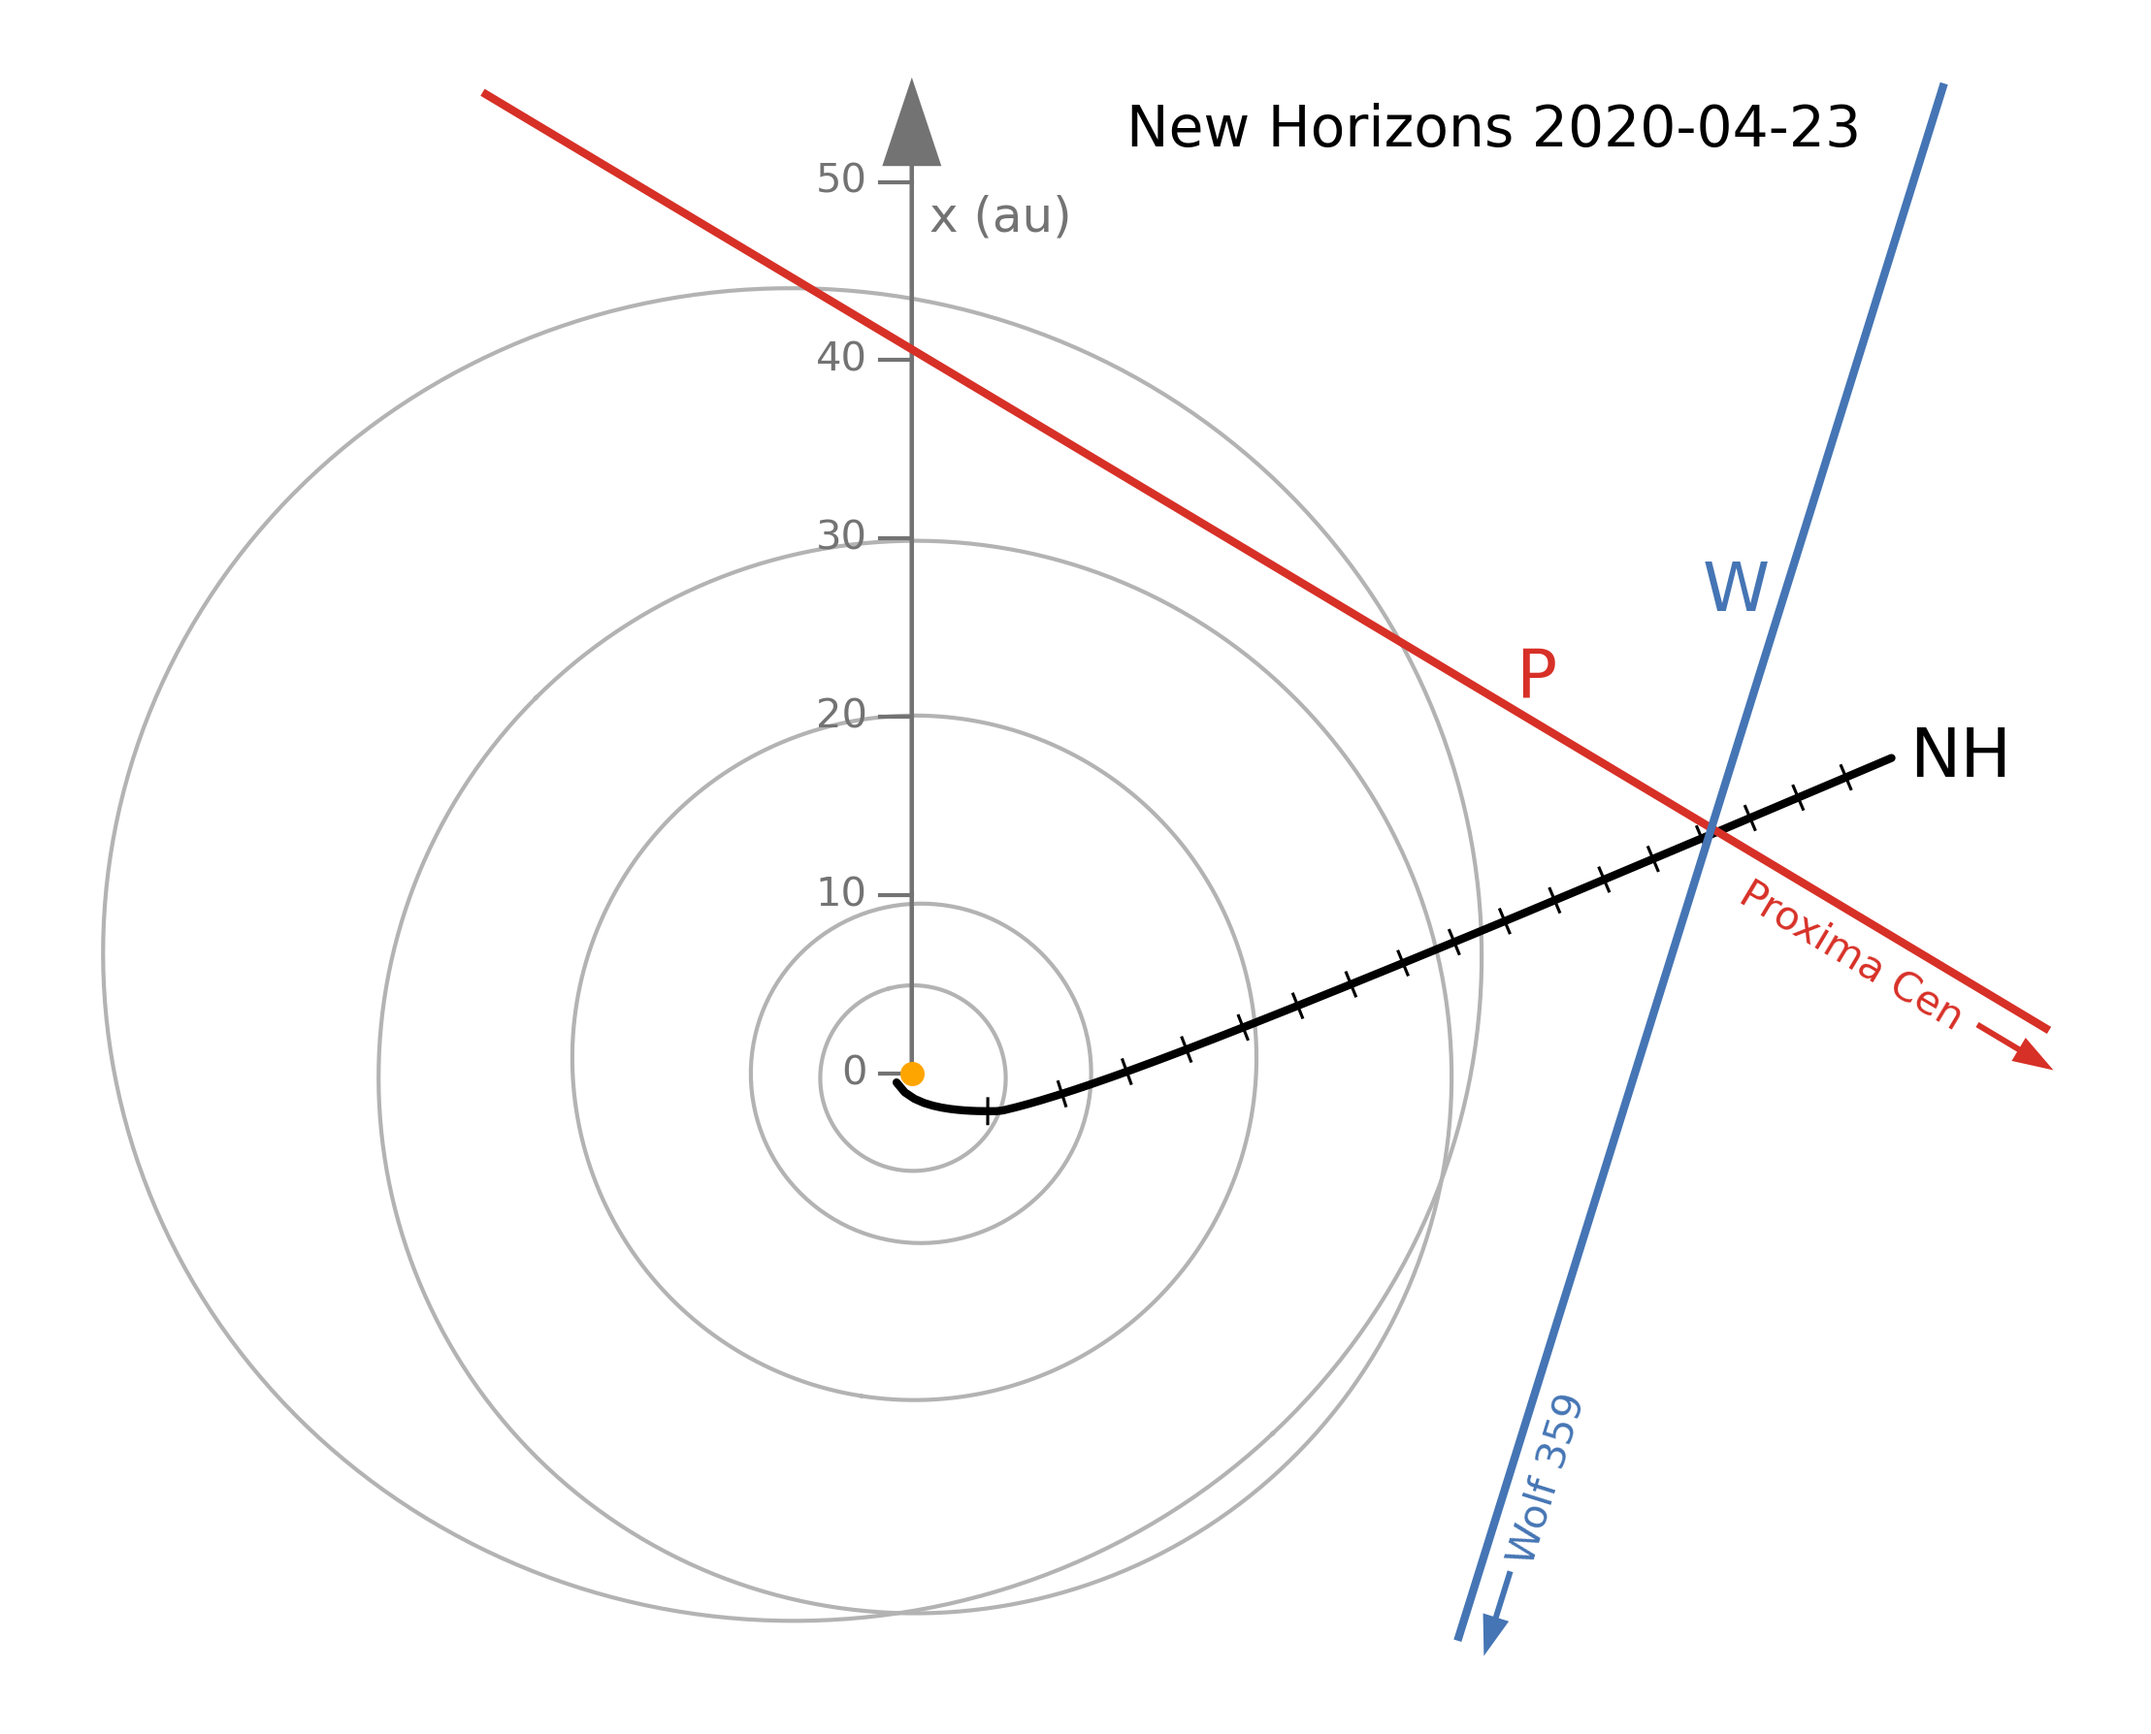
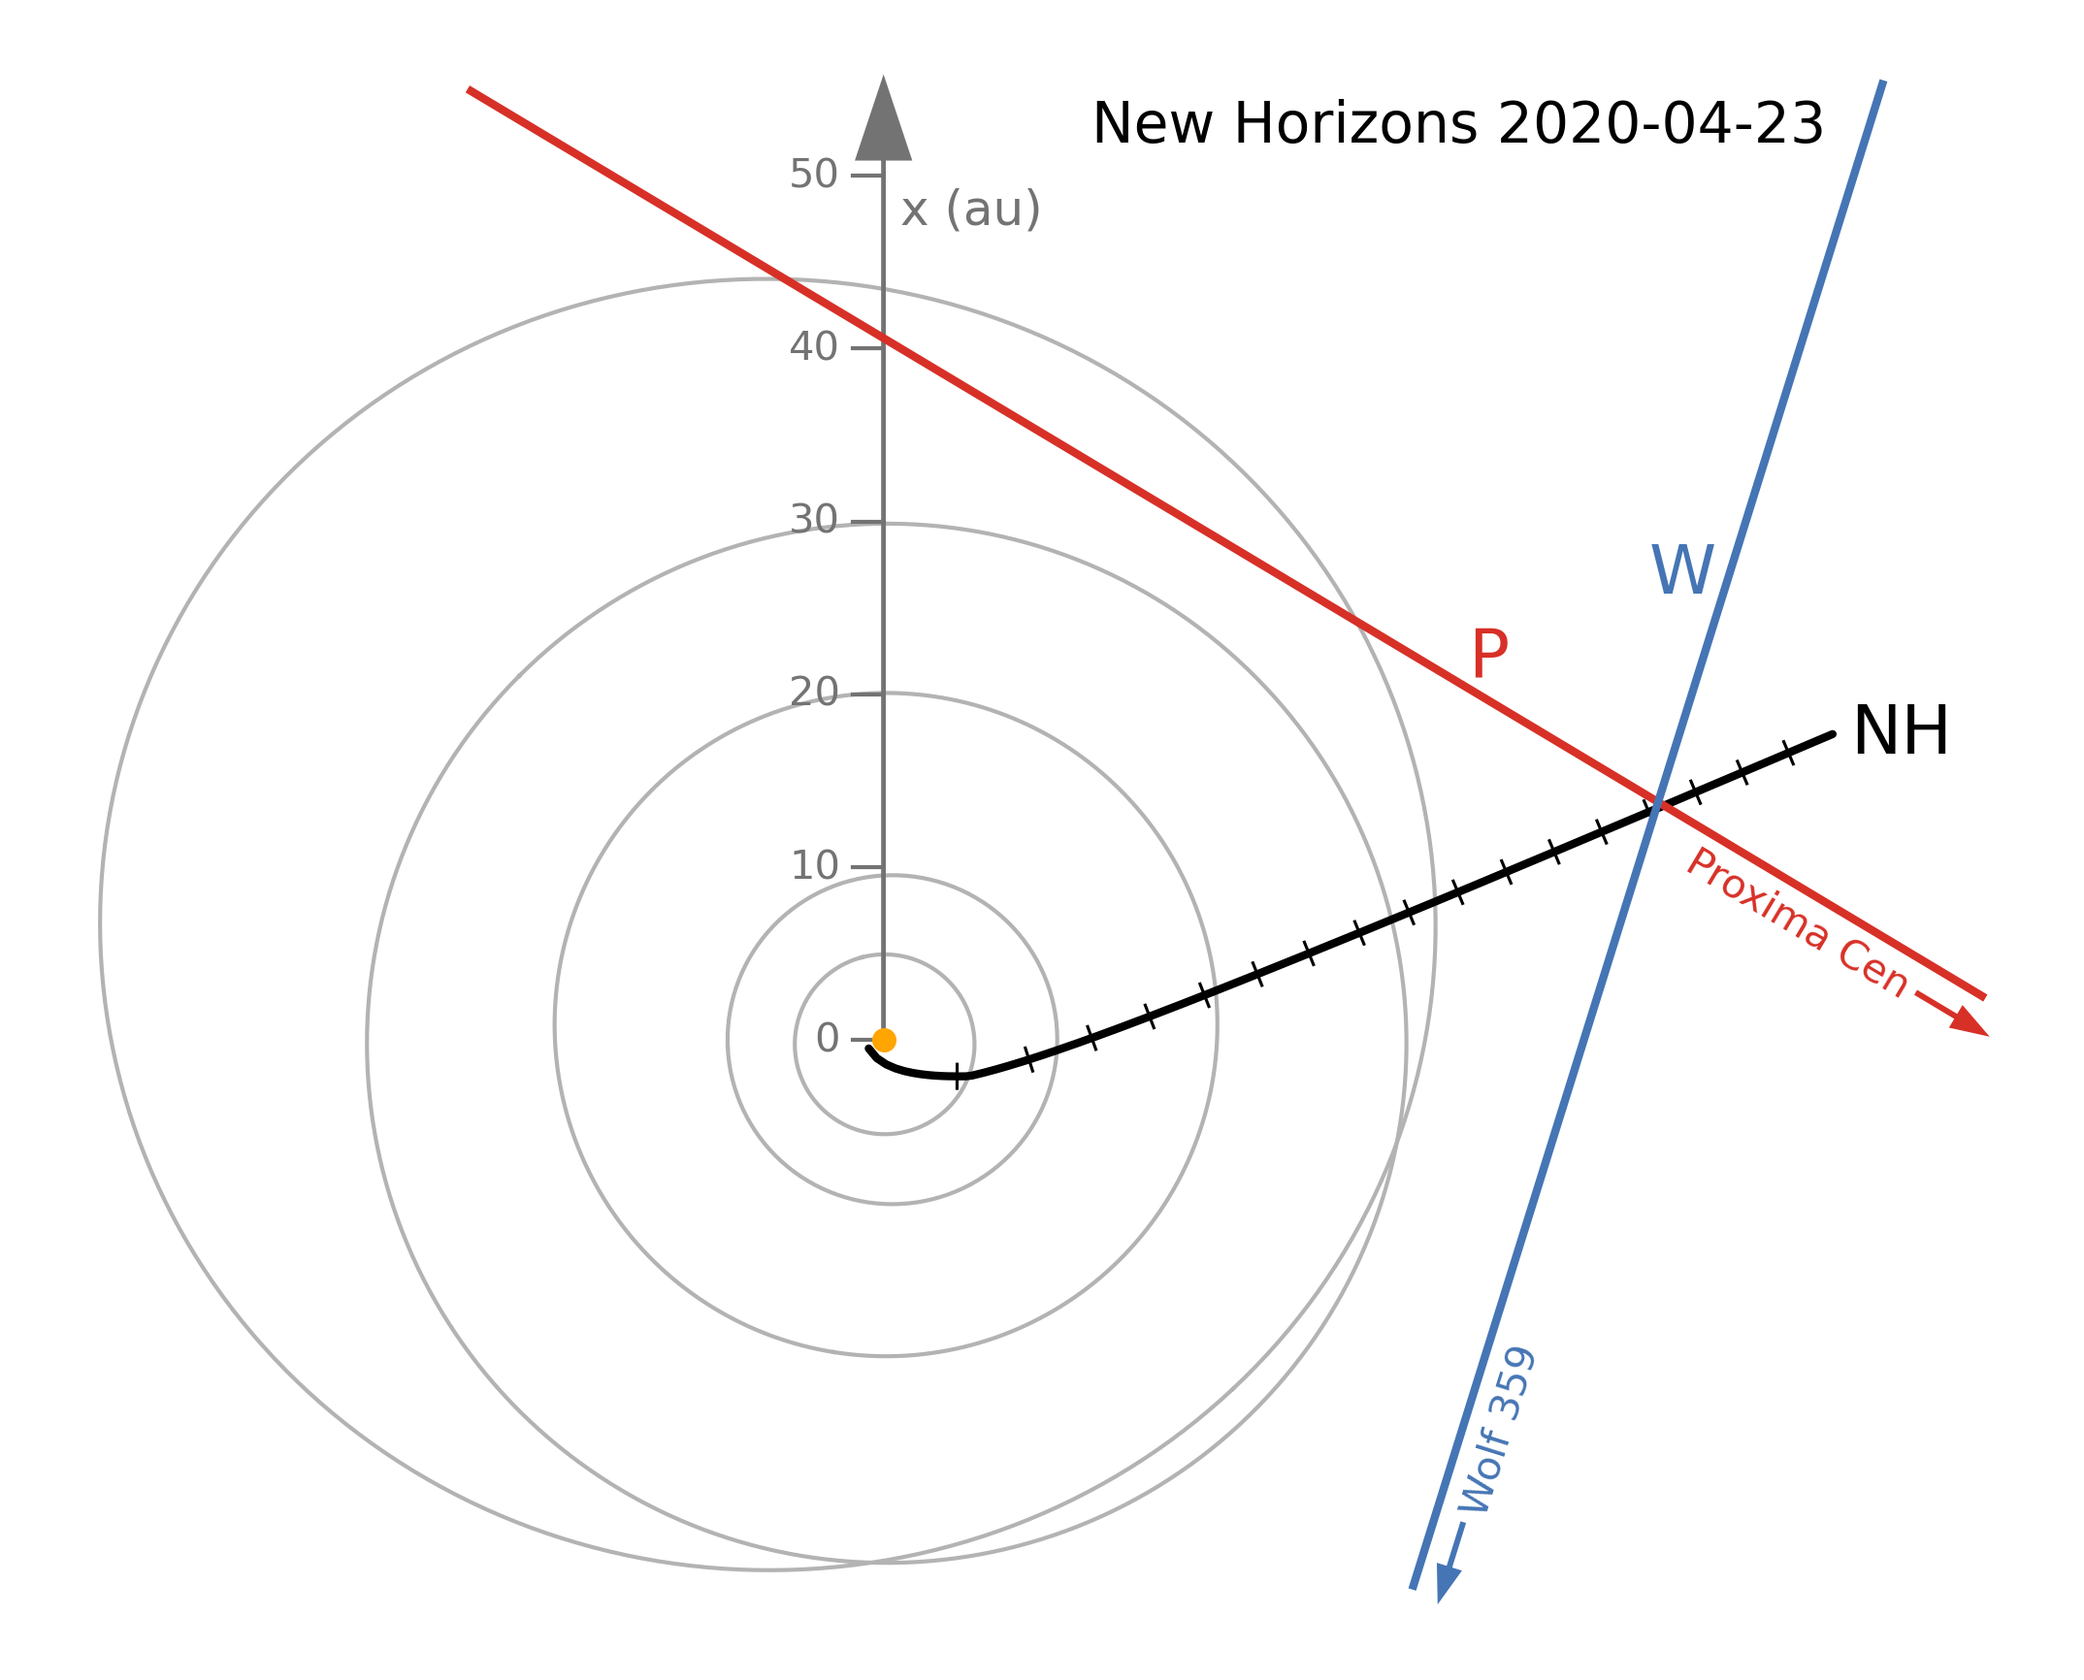
fig1 nearly complete

diff --git a/nhparaplots.py b/nhparaplots.py
@@ -3,7 +3,8 @@ from datetime import datetime
 from numpy import (array, arange, asfarray, pi, cos, sin, sqrt, arctan2,
                    where, matmul, cross, interp)
 from matplotlib import rc
-from matplotlib.pyplot import clf, axes, axis, plot, text, arrow, savefig
+from matplotlib.pyplot import (clf, axes, axis, plot, text, arrow, savefig,
+                               gcf)
 
 rc('lines', linewidth=2)
 
@@ -275,6 +276,10 @@ tickf = ticki % 1.0
 ticki = (ticki // 1.0).astype(int)
 nh_ticks = (1. - tickf)*nh_ticks[..., ticki] + tickf*nh_ticks[..., ticki+1]
 
+gcf().set_figwidth(9.77)
+gcf().set_figheight(7.45)
+gcf().set_dpi(100.)
+
 # nhfig1 caption:
 #
 # Orbits of the outer planets and New Horizons (NH) viewed from the
@@ -286,55 +291,50 @@ nh_ticks = (1. - tickf)*nh_ticks[..., ticki] + tickf*nh_ticks[..., ticki+1]
 # date.  Proxima Cen is about 45 degrees south of the ecliptic, so the
 # P ray is pointing into the page at that angle.  Wolf 359 is nearly in
 # the ecliptic plane, and the spacecraft is within 2 degrees.
-def fig1(save=True, name="nhfig1.png", dpi=300, alt=True):
+def fig1(prog=3, save=False, name="nhfig1.png", dpi=300):
     clf()
     axes(aspect="equal").set_axis_off()
+    # axis((-50.768, 69.110, -36.685, None))  does weird stuff here
     plot(*vernal_up(jup_xyz), c="0.7", lw=1)
     plot(*vernal_up(sat_xyz), c="0.7", lw=1)
     plot(*vernal_up(ura_xyz), c="0.7", lw=1)
     plot(*vernal_up(nep_xyz), c="0.7", lw=1)
     plot(*vernal_up(plu_xyz), c="0.7", lw=1)
-    if alt:
-        arrow(0, 0, 0, 51, color="0.45", head_width=3, head_length=4.5,
-              zorder=2)
-        for y in [0, 10, 20, 30, 40, 50]:
-            plot([-1.8, 0], [y, y], c="0.45", lw=1)
-            text(-2.5, y, str(y), va="center", ha="right", c="0.45", size=10)
-        text(1, 48, "x (au)", va="center", ha="left", c="0.45", size=12)
-    else:
-        plot([0, 0], [0, 47], ":", c="0.7")
-        plot([30, 40], [40, 40], c="k", lw=4)
-        text(42, 40, "10 au", size="large", va="center", ha="left", c="k")
-    plot(*nh_ticks, c="k", lw=0.75)
-    plot(*nh_xy, c="k", solid_capstyle="round")
-    # arrow(*arrow_prox, width=0.4, color="#d73027",
-    #       head_width=3, head_length=4.5, zorder=2)
-    # arrow(*arrow_wolf, width=0.4, color="#4575b4",
-    #       head_width=3, head_length=4.5, zorder=2)
-    plot(*seg_prox, c="#d73027")
-    plot(*seg_wolf, c="#4575b4")
+    arrow(0, 0, 0, 51, color="0.45", head_width=3, head_length=4.5,
+          zorder=2)
+    for y in [0, 10, 20, 30, 40, 50]:
+        plot([-1.8, 0], [y, y], c="0.45", lw=1)
+        text(-2.5, y, str(y), va="center", ha="right", c="0.45", size=10)
+    text(1, 48, "x (au)", va="center", ha="left", c="0.45", size=12)
+    if prog > 2:
+        plot(*nh_ticks, c="k", lw=0.75)
+        plot(*nh_xy, c="k", solid_capstyle="round")
+        px, py = vernal_up(nh_xyz[:, -1])
+        text(px+1, py, "NH", size="large", va="center", ha="left", c="k")
     plot(0, 0, "o", ms=5, c="orange")
-    # px, py = vernal_up(prox_q + 5*prox_d)
-    # plot([px], [py], "o", ms=5, c="#d73027")
-    #   text(*vernal_up(prox_q + 1.5*prox_d)   ...
-    # px, py = vernal_up(wolf_q - 37*wolf_d)
-    # plot([px], [py], "o", ms=5, c="#4575b4")
-    #   text(*vernal_up(wolf_q - 40.5*wolf_d)   ...
-    # P: 52, 5.5  W: 44, 0
-    text(35, 22.2, "P", size="large", va="center", ha="center", c="#d73027")
-    text(46.2, 27, "W", size="large", va="center", ha="center", c="#4575b4")
-    ang = arctan2(*(prox_d[:2]*[1,-1])) * 180./pi
-    text(46, 2.5, "Proxima Cen", size=10, c="#d73027", rotation=ang)
-    c, s = cos(ang * pi/180.), sin(ang * pi/180.)
-    arrow(59.8, 2.7, 2.7*c, 2.7*s, width=0.1, head_width=1.2, color="#d73027")
-    ang = arctan2(*(wolf_d[:2]*[-1,1])) * 180./pi
-    text(33.1, -27.3, "Wolf 359", size=10, c="#4575b4", rotation=ang)
-    c, s = -cos(ang * pi/180.), -sin(ang * pi/180.)
-    arrow(33.5, -28, 2.7*c, 2.7*s, width=0.1, head_width=1.2, color="#4575b4")
-    px, py = vernal_up(nh_xyz[:, -1])
-    text(px+1, py, "NH", size="large", va="center", ha="left", c="k")
-    text(12, 52, "New Horizons 2020-04-23", size=14, c="k")
+    if prog > 0:
+        plot(*seg_prox, c="#d73027")
+        text(35, 22.2, "P", size="large", va="center", ha="center", c="#d73027")
+        ang = arctan2(*(prox_d[:2]*[1,-1])) * 180./pi
+        text(46, 2.5, "Proxima Cen", size=10, c="#d73027", rotation=ang)
+        c, s = cos(ang * pi/180.), sin(ang * pi/180.)
+        arrow(59.8, 2.7, 2.7*c, 2.7*s, width=0.1, head_width=1.2,
+              color="#d73027")
+    if prog > 1:
+        plot(*seg_wolf, c="#4575b4")
+        text(46.2, 27, "W", size="large", va="center", ha="center", c="#4575b4")
+        ang = arctan2(*(wolf_d[:2]*[-1,1])) * 180./pi
+        text(33.1, -27.3, "Wolf 359", size=10, c="#4575b4", rotation=ang)
+        c, s = -cos(ang * pi/180.), -sin(ang * pi/180.)
+        arrow(33.5, -28, 2.7*c, 2.7*s, width=0.1, head_width=1.2,
+              color="#4575b4")
+    if prog > 1:
+        text(12, 52, "New Horizons 2020-04-23", size=14, c="k")
+    axis((-50.768, 69.110, -36.685, None))
     if save:
+        if prog < 3:
+            name = name.split(".")
+            name = ".".join([name[0] + "-{}".format(prog), name[1]])
         savefig(name, dpi=dpi, facecolor="w")
 
 
@@ -357,24 +357,6 @@ def fig0(save=True, name="nhfig1.png", dpi=300, alt=True):
         plot([0, 0], [0, 47], ":", c="0.7")
         plot([30, 40], [40, 40], c="k", lw=4)
         text(42, 40, "10 au", size="large", va="center", ha="left", c="k")
-    plot([0], [0], "o", ms=5, c="k")
-    plot(*vernal_up(nh_xyz), c="k", solid_capstyle="round")
-    arrow(*arrow_prox, width=0.4, color="#d73027",
-          head_width=3, head_length=4.5, zorder=2)
-    arrow(*arrow_wolf, width=0.4, color="#4575b4",
-          head_width=3, head_length=4.5, zorder=2)
-    # px, py = vernal_up(prox_q + 5*prox_d)
-    # plot([px], [py], "o", ms=5, c="#d73027")
-    #   text(*vernal_up(prox_q + 1.5*prox_d)   ...
-    # px, py = vernal_up(wolf_q - 37*wolf_d)
-    # plot([px], [py], "o", ms=5, c="#4575b4")
-    #   text(*vernal_up(wolf_q - 40.5*wolf_d)   ...
-    text(52, 5.5, "P", size="large", va="center", ha="center", c="#d73027")
-    text(44, 0, "W", size="large", va="center", ha="center", c="#4575b4")
-    px, py = vernal_up(nh_xyz[:, -1])
-    text(px+1, py, "NH", size="large", va="center", ha="left", c="k")
-    if save:
-        savefig(name, dpi=dpi, facecolor="w")
 
 
 def circle_pts(x, y, r, npts=256):
